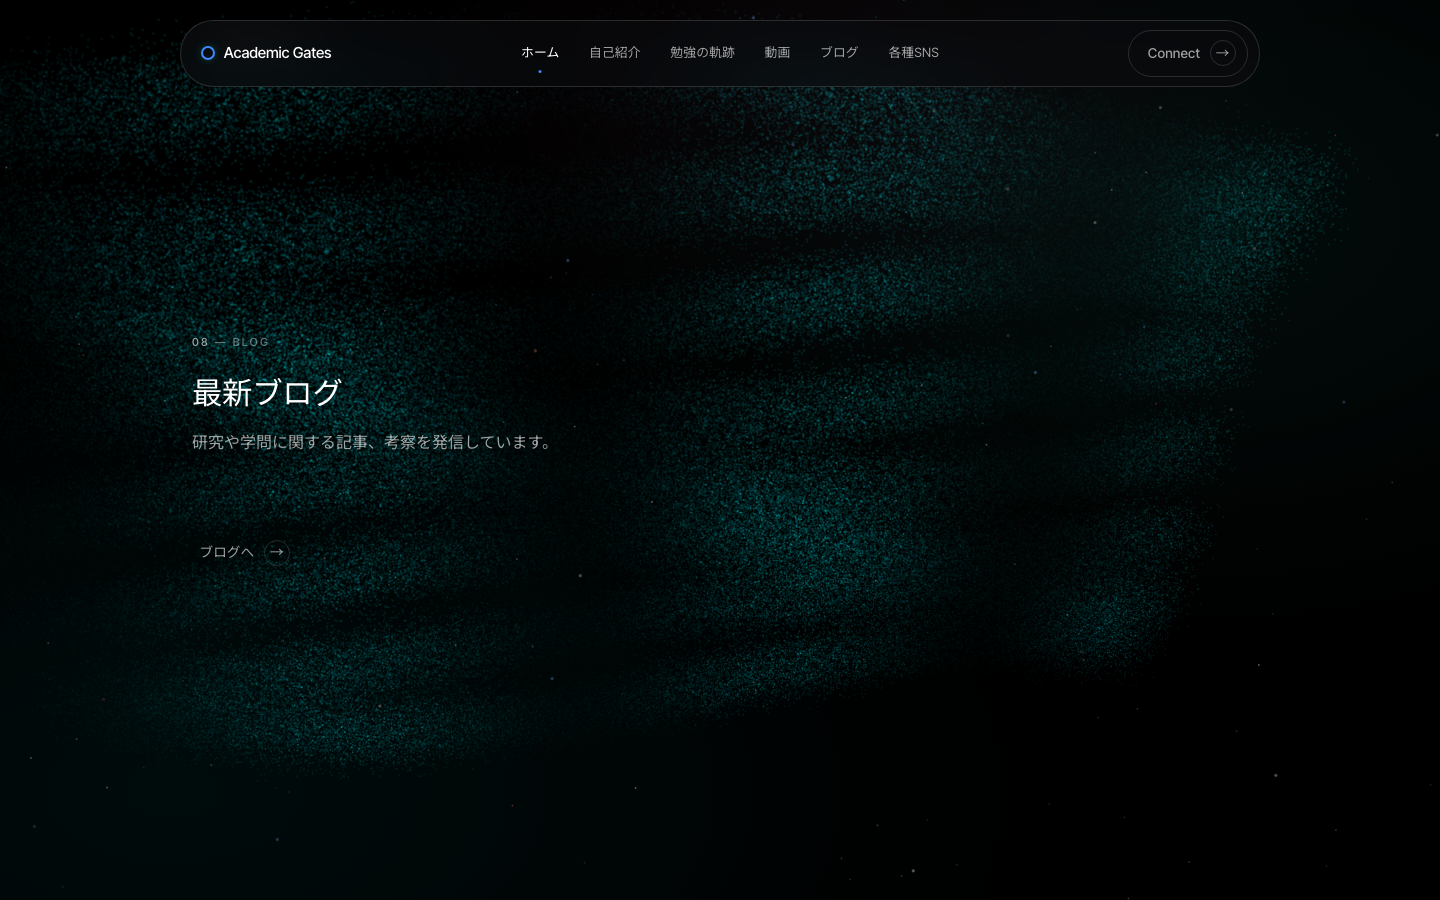
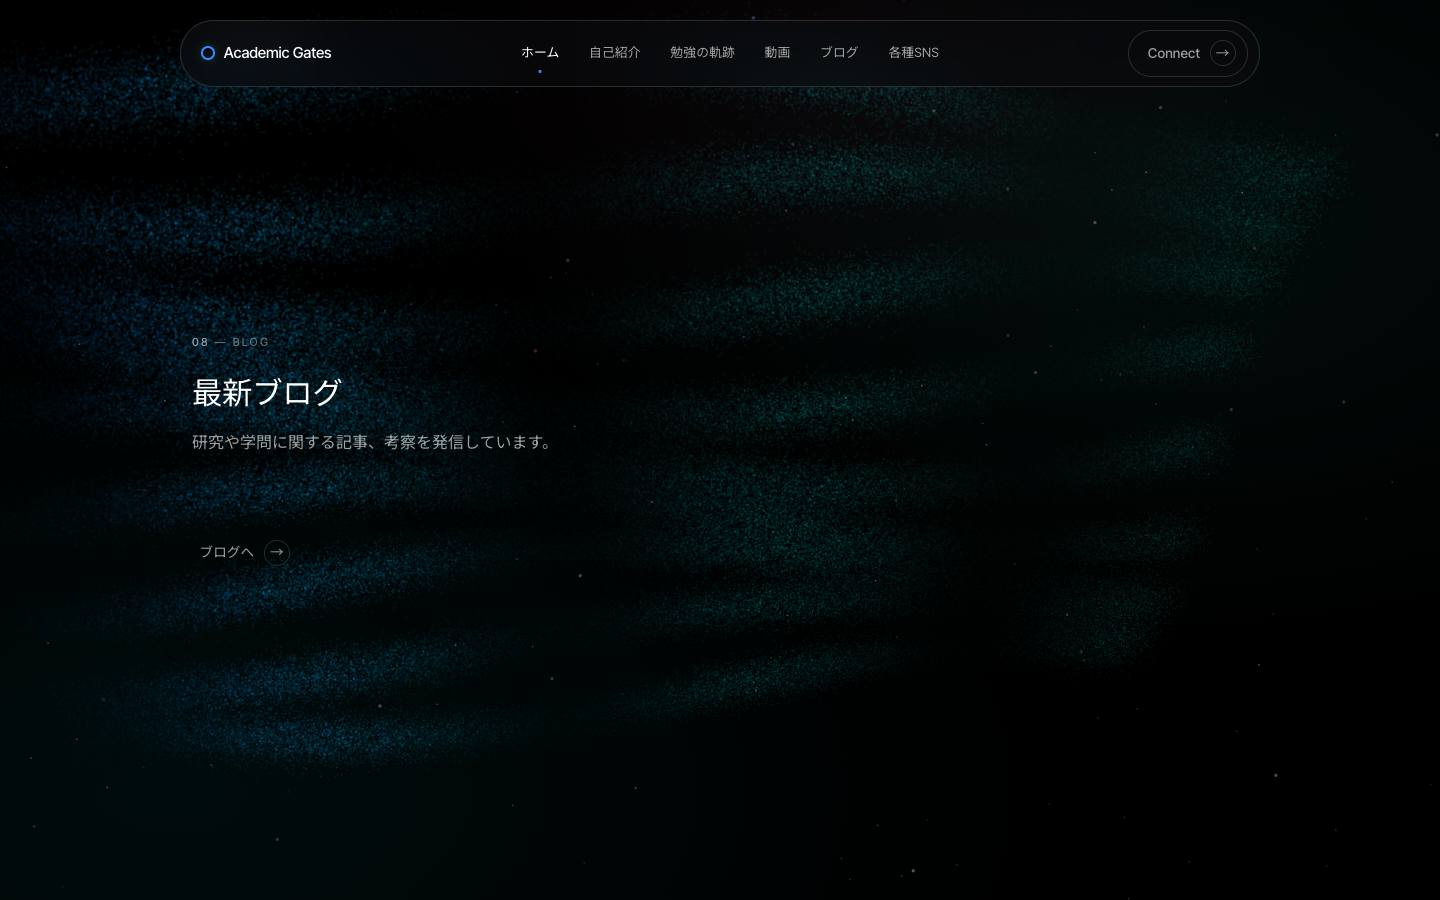
Round-19c: reversed cool spectrum + luminance compensation on stream (stage 4)
Replaces the Round-19b narrow teal->blue spectrum, which was committed then
rejected on review: the distinct blue hue piled at the right edge, away from the
left blog title, reading as a stray patch. The metric we had gated on -- per-
column luminance right/left ratio -- did not catch it (narrow measured R/L 1.05,
the MOST balanced of all variants): a colour cluster at balanced luminance is
invisible to a brightness ratio.

Replacement metric (DESIGN.md §22.2): hue x luminance Pearson correlation,
qualified by hue range. Positive over a real gradient = distinct hue coincides
with the bright region = a bright colour patch (the failure). Narrow measured
+0.68; the shipped reversed direction measures -0.82 (blue on the dim side, it
recedes).

Ships: energy 0.62 - 0.40*sxr (blue trailing/left -> teal leading/right, still
capped at 0.62 = cool-only, 0 violet) with per-particle brightness
3.795/(6.51 + 6.29*sxr), a compensation DERIVED from the measured per-column
luminance (not tuned): brightness proportional to 1/L(sxr) cancels the stream's
inherent right-lean. Anchored to the dim LEFT level so it flattens by dimming the
bright right, never by lifting the title-side background. Measured: R/L 1.42 ->
1.24 (= flat-teal parity); blog-title 24-frame contrast min 6.01 / median 9.04 /
0 below AA; 0 violet; density identical (brightness-only); clip 0%; frame time
33.4/50.1 ms. Full flatness is capped by the title-AA constraint (the mean anchor
[…]

diff --git a/Academic-Gate_hp/js/scroll-scenes.js b/Academic-Gate_hp/js/scroll-scenes.js
@@ -242,8 +242,22 @@
                     var sxr = rnd();                                      // 0 trailing (left) → 1 leading (right)
                     var sx = -S * 1.7 + sxr * S * 3.1;
                     var sly = (sline / 8 - 0.5) * S * 1.45;
+                    // Round-19c: energy runs blue (0.62) at the TRAILING edge -> teal (0.22) at the LEADING edge:
+                    // a cool spectrum spread across the frame, with the dim blue END sitting on the LEFT where the
+                    // title rests. Capped at 0.62 (below the violet threshold) so the palette stays cool-only. This
+                    // direction was chosen because it keeps the distinct-blue hue on the DIM side (it recedes) instead
+                    // of coinciding with the bright side; measured hue×luminance correlation -0.82 vs the teal→blue
+                    // direction's +0.68 (a bright blue patch). See DESIGN.md §22.
+                    // Brightness is NOT flat: it compensates the stream's inherent left→right luminance lean.
+                    // L(sxr) = 6.51 + 6.29·sxr is the measured frame-averaged per-column luminance of THIS spectrum
+                    // at flat 0.55 (rises 6.9→12.4 across the frame: geometry + the teal end being brighter than blue).
+                    // brightness ∝ 1/L(sxr) cancels that lean. Anchored to the DIM LEFT level (3.795 = 6.9·0.55) so the
+                    // compensation FLATTENS BY DIMMING THE BRIGHT RIGHT, never by lifting the dark title-side left —
+                    // brightening the left pushed the blog title below AA on 1/24 frames. This anchor holds every
+                    // sampled frame above AA. Full flatness is capped by that title constraint; see DESIGN.md §22.
+                    var scomp = 3.795 / (6.51 + 6.29 * sxr);              // ≈0.58 (left) → ≈0.30 (right)
                     return [sx, sly + 0.1 * S * Math.sin(sx * 0.5 + sline) + gauss(0.05 * S), (sline - 4) * S * 0.09 + gauss(0.04 * S),
-                        0.26 + 0.2 * rnd(), 0.635, 0]; // Round-19: FLAT brightness = mean(dispersal 0.55, waveforms 0.72). The old left→right ramp (0.30→0.81) made the stage read as split; density is uniform, so the ramp was the only cause. Direction is now carried ONLY by the traveling streamW pulse below (a moving cue, not visible in a still). See DESIGN.md §21.
+                        0.62 - 0.40 * sxr, scomp, 0];
                 }
                 case 'waveforms': { // SIGNAL traces: thin, regular, periodic (distinct from nature's organic slabs)
                     var wtr = Math.floor(rnd() * 5);                      // 5 thin signal lines

diff --git a/Academic-Gate_hp/DESIGN.md b/Academic-Gate_hp/DESIGN.md
@@ -1712,7 +1712,7 @@ background — **below the WCAG AA 4.5:1 floor** for normal-size text.
   every footer element and the closing line on both viewports against `body::before`), then adjust
   the tagline treatment to ≥ 4.5:1 without regressing the other pages.
 
-# 21. Round 19 — stream (stage 4) brightness flattened
+# 21. Round 19 — stream (stage 4): brightness flattened, then a narrow cool spectrum
 
 `make('stream')`'s brightness was a left→right ramp `(0.35 + 0.6·sxr)·0.85` = **0.30 (left) →
 0.81 (right), ~2.7×**. Measurement showed stream's particle **density is horizontally uniform**
@@ -1722,6 +1722,20 @@ cause of the stage reading as "text left / motif right, empty middle." Flattened
 mean of dispersal (0.55) and waveforms (0.72)** — the two flat-brightness below-hero motifs that
 bracket stream (stages 3 and 5). Measured after: per-column mean luminance right/left ratio
 **1.53× → 0.96×** (dispersal 1.01×, waveforms 0.87×); density unchanged; clipping 0→0.
+
+**Round-19b — value moved 0.635 → 0.55 when a narrow spectrum was adopted (not drift).** Stream's
+colour was then widened to a **narrow teal→cyan→blue spectrum** (energy `0.22 + 0.40·sxr`, capped
+at 0.62 so it stays **below the violet threshold — cool-only, no violet/magenta/ember**;
+grep-verified 0 violet pixels of ~76 000 lit). At the flat-teal brightness 0.635 the spectrum dips
+below AA on ~8% of sampled frames; at **0.55** it is above AA on **every** sampled frame. **Both
+values are derived from the same two references:** 0.635 = the *mean* of dispersal (0.55) and
+waveforms (0.72), correct for flat teal; 0.55 = dispersal's value, the *low end* of that same
+[0.55, 0.72] range, needed because a spectrum spans hues of differing luminance (teal is more
+luminant than blue) and so needs the lower reference to keep every frame above AA. The move is a
+principled step within the reference range, not an eyeballed nudge. Cost of the hue gradient: the
+per-column luminance ratio is now **0.65×** (mildly *left*-leaning — teal brighter than blue),
+the opposite of the old right-heavy split, so it does not recreate the "empty middle." Frame time
+unchanged (headless 33.3 / 33.4 ms).
 
 ## 21.1 Direction is now a motion-only cue — matters for docs/stills
 
@@ -1736,13 +1750,128 @@ left/right sense. That is expected. Do not "fix" it by reintroducing a static gr
 was taken out on purpose. If a still-frame directional cue is ever wanted, it must come from
 something other than brightness (e.g. particle-shape or position asymmetry), decided separately.
 
-## 21.2 Reduced legibility margin at stage 4 — spend it knowingly
+## 21.2 Reduced legibility margin at stage 4 — stated in distribution terms
 
-Flattening moved the previously-**dim** left end (where the blog title 最新ブログ sits) up to full
-brightness, so the blog-title worst-case contrast dropped **9.22:1 → 5.21:1**. Still above the AA
-4.5:1 floor, **but the margin roughly halved** (from ~4.7 above AA to ~0.7 above). **Constraint:**
-any future change that adds brightness, saturation, or a wider spectrum at stage 4 is spending a
-**reduced** margin — 0.7 above AA, not 4.7. Re-measure the blog-title glyph contrast (median *and*
-worst, across a run of frames — worst-case is frame-noisy, not a single frozen frame) after any such change, and
-treat a drop below 4.5 as a blocker. (This is why the Round-19 spectrum experiments, which pushed
-worst-case to 3.74–4.11, stayed throwaway.)
+Flattening moved the previously-**dim** left end (where the blog title 最新ブログ sits) up toward
+full brightness, so the blog title now sits over a brighter motif. **State this as a distribution,
+not a single frozen number** (an earlier draft recorded a "5.21:1 worst-case" — that was one
+frozen frame, and frozen worst-case is noise, see §21.3). **Superseded by §22 (Round-19c):** the narrow teal→blue spectrum below was
+rendered and rejected; what ships is the *reversed* blue→teal spectrum with luminance compensation.
+Over a 24-frame sampled run, the
+then-committed **narrow-spectrum-@0.55** stream measured blog-title worst-case: **min 5.26, median 6.6,
+max 10.8 — 0 frames below AA**; median contrast ~19.8 throughout. The flat-teal step (Round-19)
+measured min 4.62, 0 below AA. **Constraint for future stage-4 changes:** the margin is now thin —
+the *minimum-frame* worst-case sits only ~0.8 above the AA 4.5 floor, not the ~4.7 the old dim-left
+ramp gave. Any change adding brightness, saturation, or wider colour at stage 4 spends that reduced
+margin; re-run the frame-distribution check (§21.3) and treat *any frame below 4.5* as a blocker.
+(This is why the full-spectrum experiment, which put 2/24 frames below AA even at 0.55, and every
+variant at 0.635, stayed throwaway.)
+
+## 21.3 Standing verification standard — frame distribution, not a frozen frame
+
+**Generalises beyond this stage.** Worst-case glyph contrast on a *single frozen frame* of an
+animated particle field is **not a usable target**: the field drifts, so the single brightest
+pixel under the text moves frame to frame. Measured spread of the blog-title worst-case across a
+sampled run: **~5–7 contrast points** (e.g. 4.62 → 9.65 for flat teal; 3.71 → 10.51 for
+spectrum@0.635) — **more than ten times** the ~0.4 gap a frozen-frame reading tempted us to tune
+against. Tuning geometry/brightness to move a frozen number is tuning against noise.
+
+**The correct test, now standard for all contrast verification** (alongside the Round-18
+footer-glyph check, §19.4): sample the glyph contrast across a **run of ≥24 animating frames** and
+require **no frame below AA 4.5:1** — report the distribution (min / median / max, and the count of
+frames below AA), not one number. The median contrast (~19.8 here) confirms the text body is fine;
+the **min-frame worst-case** is the figure that gates AA. Frozen-frame worst-case may be recorded
+as context but must never be the pass/fail criterion. This applies to title glyphs, footer glyphs,
+and the closing line alike.
+
+# 22. Round 19c — stream (stage 4): reversed spectrum + luminance compensation; the colour-cluster metric
+
+Supersedes §21's Round-19b narrow spectrum. `make('stream')` now runs energy **`0.62 − 0.40·sxr`**
+(blue at the trailing/left edge → teal at the leading/right edge) with a **per-particle brightness
+compensation `3.795 / (6.51 + 6.29·sxr)`** (≈0.58 left → ≈0.30 right), still capped at 0.62 so the
+palette stays **cool-only** (measured 0 violet pixels of ~43 000 lit).
+
+## 22.1 Why teal→blue (Round-19b) was rejected — and why the luminance ratio didn't catch it
+
+The Round-19b **narrow teal→blue** spectrum (energy `0.22 + 0.40·sxr`, flat brightness 0.55) was
+committed, then rejected on visual review: the distinct **blue hue piled at the right edge**, away
+from the left-aligned blog title, and read as "something over there" rather than a colour spread.
+
+The metric we had been gating on — **per-column luminance right/left ratio** — *did not capture
+this failure.* Measured frame-averaged (pulse cancelled over 8 uTimes; single-frame ratios are
+noise, cf. §21.3), the narrow teal→blue variant scored **R/L 1.05** — the *most balanced of every
+variant* (flat teal 1.23, reversed 1.42, dispersal 1.28, waveforms 1.02). By luminance it was the
+best. The blue-on-right cluster is a **hue** effect at *balanced luminance*: the ratio measures
+brightness, so it is blind to a patch of distinct colour that is not also a patch of brightness.
+**Recorded lesson:** the luminance ratio is a diagnostic, not a gate — it cannot adjudicate a
+colour-clustering complaint.
+
+## 22.2 The replacement metric — hue × luminance correlation
+
+Colour clustering is now measurable. Compute the **per-column mean hue** (8 columns) and the
+**per-column mean luminance**, then their **Pearson correlation**, *qualified by hue range* (only
+meaningful when a hue gradient exists — hue range ≳ 10°; a flat-teal field has range ~3° and the
+correlation is noise). Interpretation:
+
+- **positive** correlation over a real hue range = the distinct (blue) hue coincides with the
+  **bright** region = a **bright colour patch** that grabs the eye — the failure mode.
+- **negative** = the distinct hue sits on the **dim** side and **recedes** = good.
+- **~0** with small hue range = no colour variation (the flat motifs).
+
+Measured (hue range in brackets): **teal→blue narrow +0.68 [23°]** — the only positive, i.e. bright
+blue patch; **reversed blue→teal −0.96 [29°]**; **flat teal −0.72 but [3°] → noise, no gradient**;
+dispersal +0.00 [2°], waveforms −0.00 [3°]. The +0.68 is the numeric signature of the cluster the
+eye caught; the reversed direction moves the blue onto the dim side (−).
+
+**Standing check (generalises beyond stage 4).** For any motif that carries a **colour gradient**,
+a **positive hue×luminance correlation over a real hue range is the failure signature** — a distinct
+hue sitting on the bright side, reading as a stray patch. It **must be qualified by hue range**: a
+correlation over a near-flat hue profile is meaningless (flat teal's −0.72 over **3°** is noise, not
+a pass — do not read it as one); treat the correlation as informative only when the hue range is
+**≳ 10°**. This now stands as a required check for colour-gradient motifs **alongside** the
+frame-distribution contrast standard (§21.3) and the footer-glyph contrast check (§19.4). A motif
+with no colour gradient (a single-hue field) is exempt — there is no distinct hue to cluster.
+
+## 22.3 Reversed spectrum reintroduces a luminance lean — compensated, not by eye
+
+Putting teal (the more-luminant hue) on the right *adds* to the stream's **inherent geometric
+right-lean** (flat uniform teal already measures R/L **1.23**, from particle overlap density, not
+colour), so the raw reversed variant measured **R/L 1.42 (c6/c1 1.58)** — the most right-heavy of
+all. The fix is a brightness term that cancels the lean, **derived from measurement, not tuned:**
+
+- `L(sxr) = 6.51 + 6.29·sxr` is the linear fit of the reversed variant's measured frame-averaged
+  per-column luminance at flat 0.55 (6.9 → 12.4 across the frame).
+- brightness ∝ **1/L(sxr)** cancels the combined (geometry + hue-luminance) lean.
+- **Anchor.** The numerator sets the target flat level. Two were measured:
+  - **mean anchor** (5.459 = 9.925·0.55, flatten to the mean level 9.9): flattened well —
+    **R/L 1.42 → 1.09** — but brightening the dim *left* raised the background under the title and
+    put **1 of 24 frames below AA** (min 3.74). **Rejected:** breaks the §21.3 standard.
+  - **left anchor** (3.795 = 6.9·0.55, flatten toward the *dim left* level, i.e. dim the bright
+    right and leave the title-side alone): **title-safe — 0/24 frames below AA, min 6.01, median
+    9.04**; **R/L 1.42 → 1.24** (= flat-teal 1.23, better than dispersal 1.28). **Shipped.**
+
+**Tradeoff, recorded (this is the boundary that stopped further flattening):** rendered luminance is
+**sublinear in brightness** on the overlap-dense right (dimming brightness 0.55→0.30 there moved
+render only 12.4→10, not proportionally), so the left-anchor flattens to flat-teal parity (1.24),
+not fully to 1.0. Pushing to full flatness needs *either* brightening the left (breaks title AA) *or*
+dimming the right down toward the left's dim level (a uniformly faint motif — dimmer than flat-teal
+and far dimmer than waveforms ~16–18). Both were **rejected deliberately**, so the compensation
+stops at the **title-safe partial flatten**. The colour cluster (the actual objection) is fully
+fixed independently — the hue direction, not the brightness, carries that.
+
+**R/L 1.24 is the finished state, not unfinished work.** It is parity with flat teal (1.23) and
+better than dispersal (1.28); it is the flattest luminance reachable at stage 4 without breaking the
+title-AA standard (§21.3) or sinking the whole motif. A future round must **not** read 1.24 as a
+loose end to drive toward 1.0 — the residual lean is bounded by the two hard constraints above, both
+of which the numbers veto. If the constraints themselves change (e.g. the title moves, or the motif
+is intended to sit brighter), re-derive; otherwise 1.24 is correct and closed.
+
+## 22.4 Measured, shipped variant (comp-left), 1440×900, headless SwiftShader
+
+Blog-title contrast (24-frame): **min 6.01 / median 9.04 / max 12.23 / 0 below AA.** Palette
+cool-only: **0 violet, 0 magenta** (warm 3 px = noise). Density grid **identical** to every other
+variant (positions untouched — compensation is brightness-only). Clipped 0%; lit-median 0.006.
+Frame time median 33.4 ms / p95 50.1 ms (n=140). Per-column luminance
+`[6.7, 7.6, 7.3, 7.3, 7.6, 8.4, 9.8, 10]` (R/L 1.24). Stills `r17-4-blog.png`, `s-cards.png`
+regenerated. Direction is still a **motion-only** cue in stills (§21.1 stands — the reversed
+*static* hue gradient is a colour spread, not a directional arrow).
